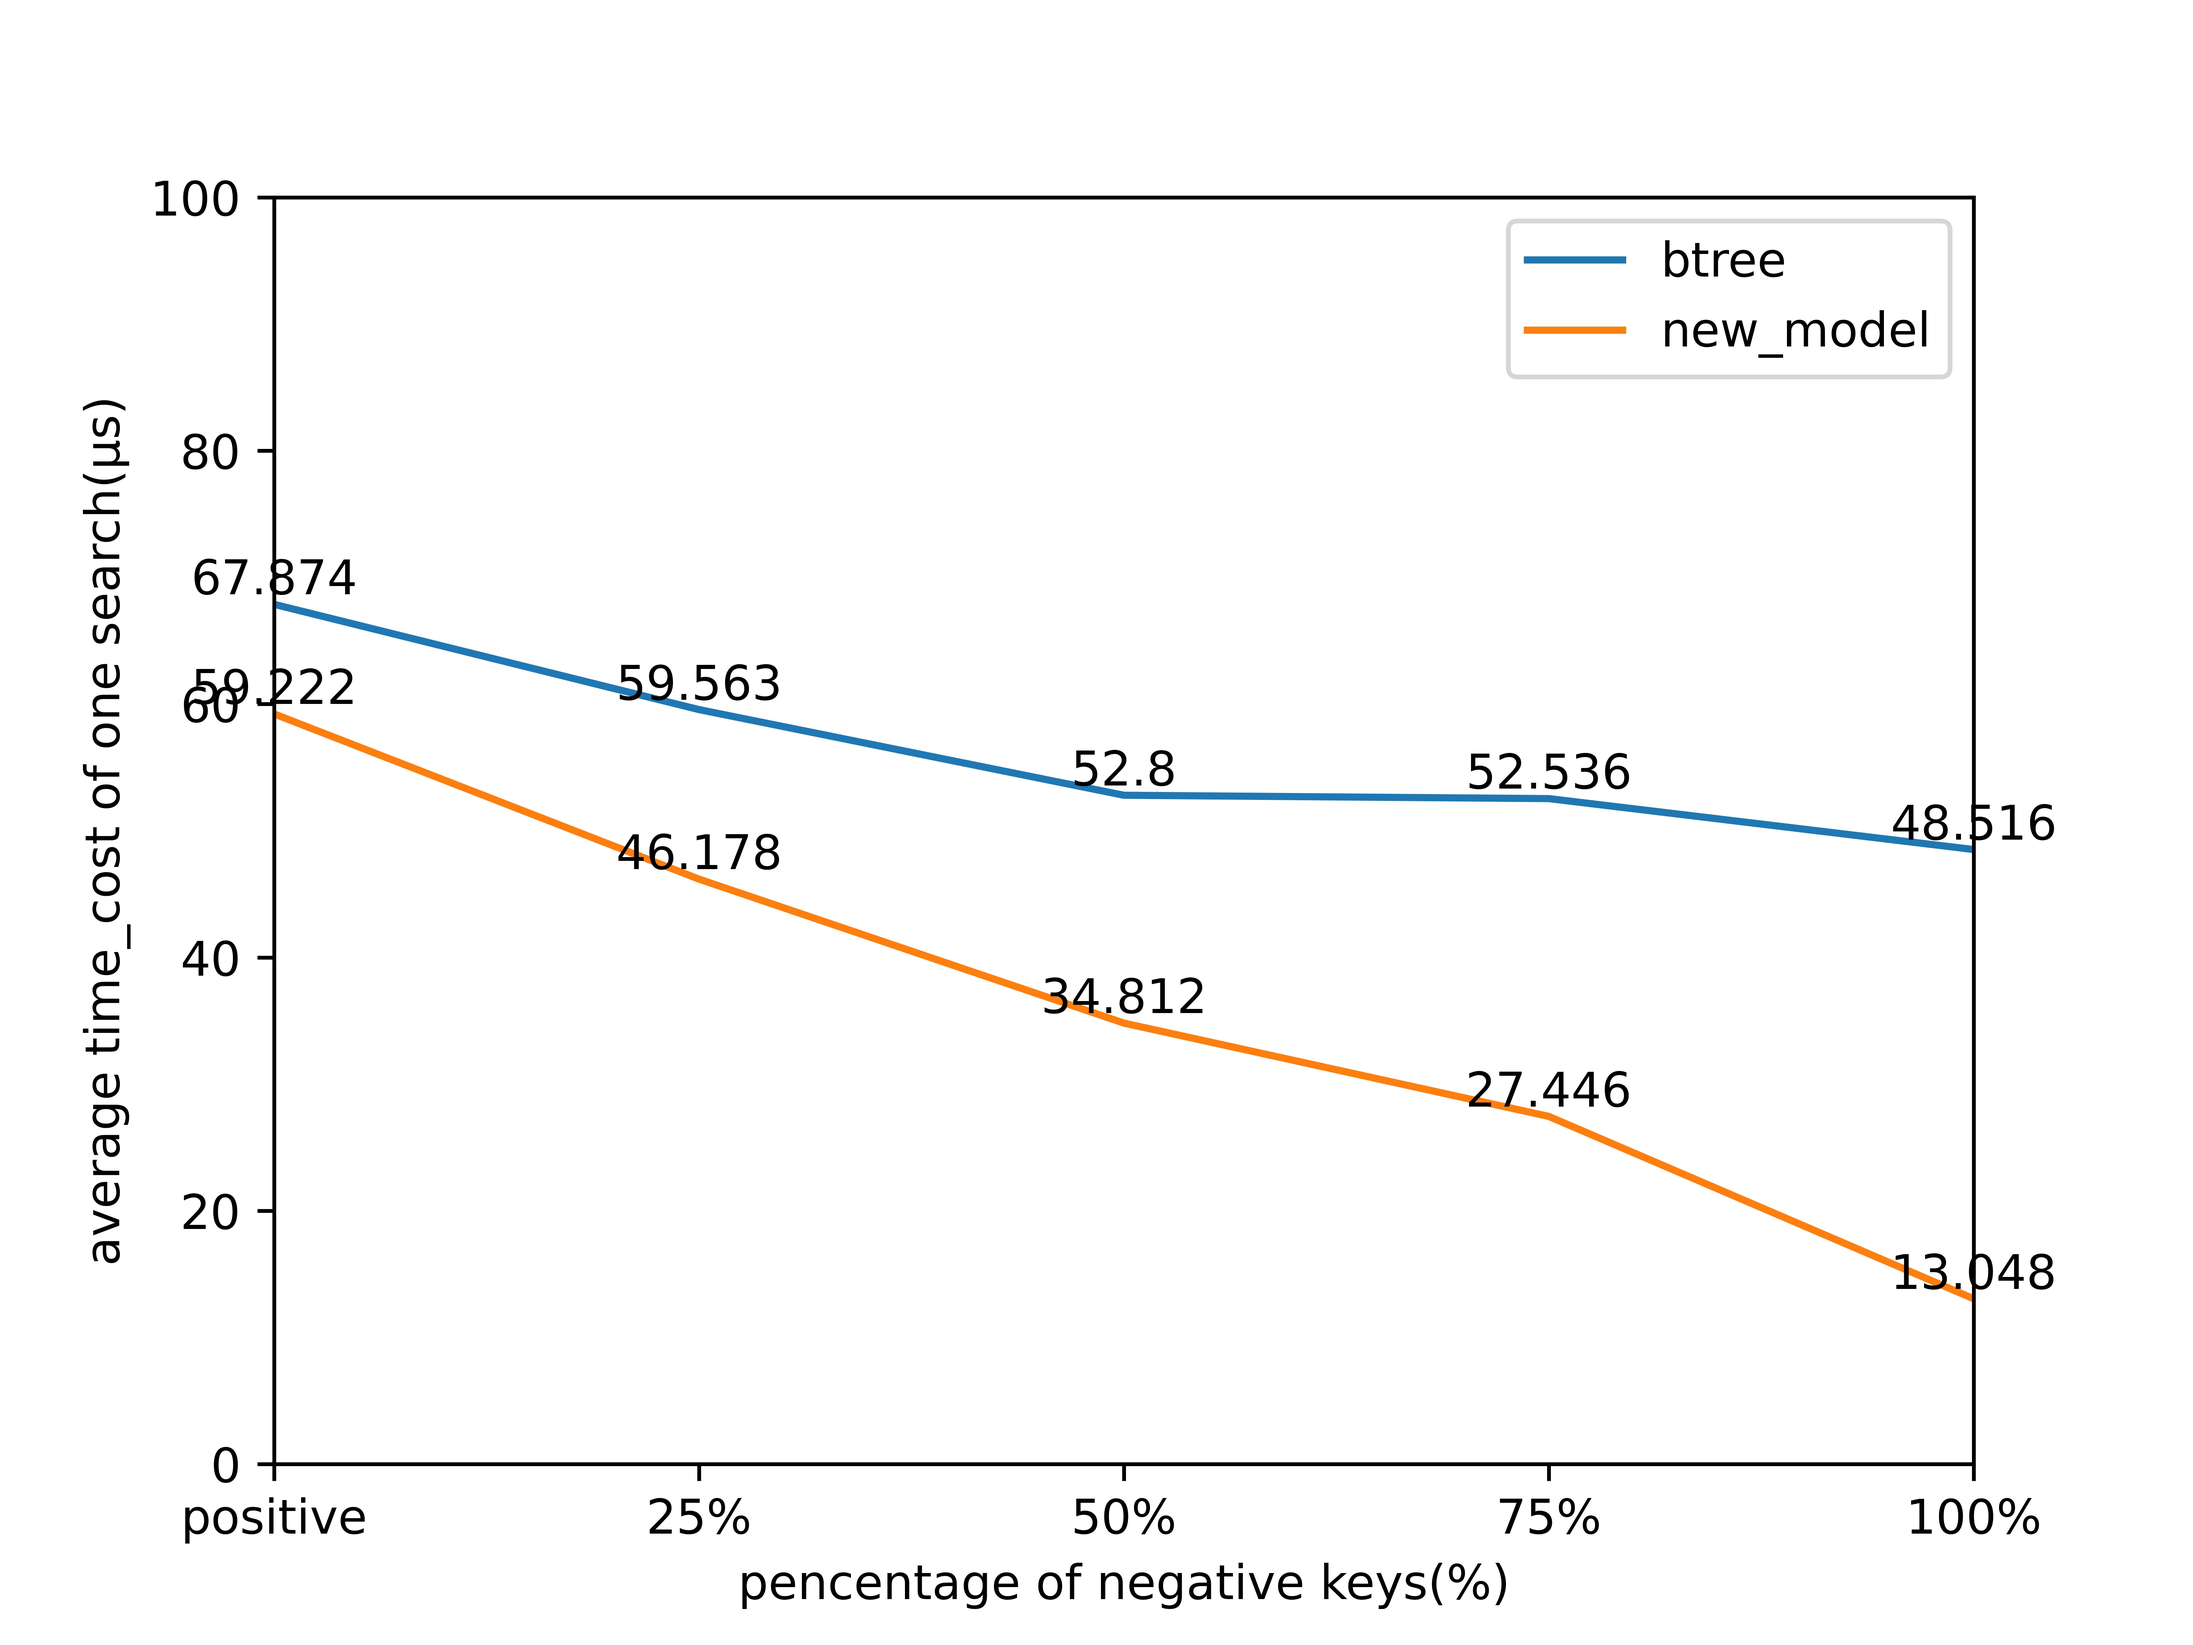
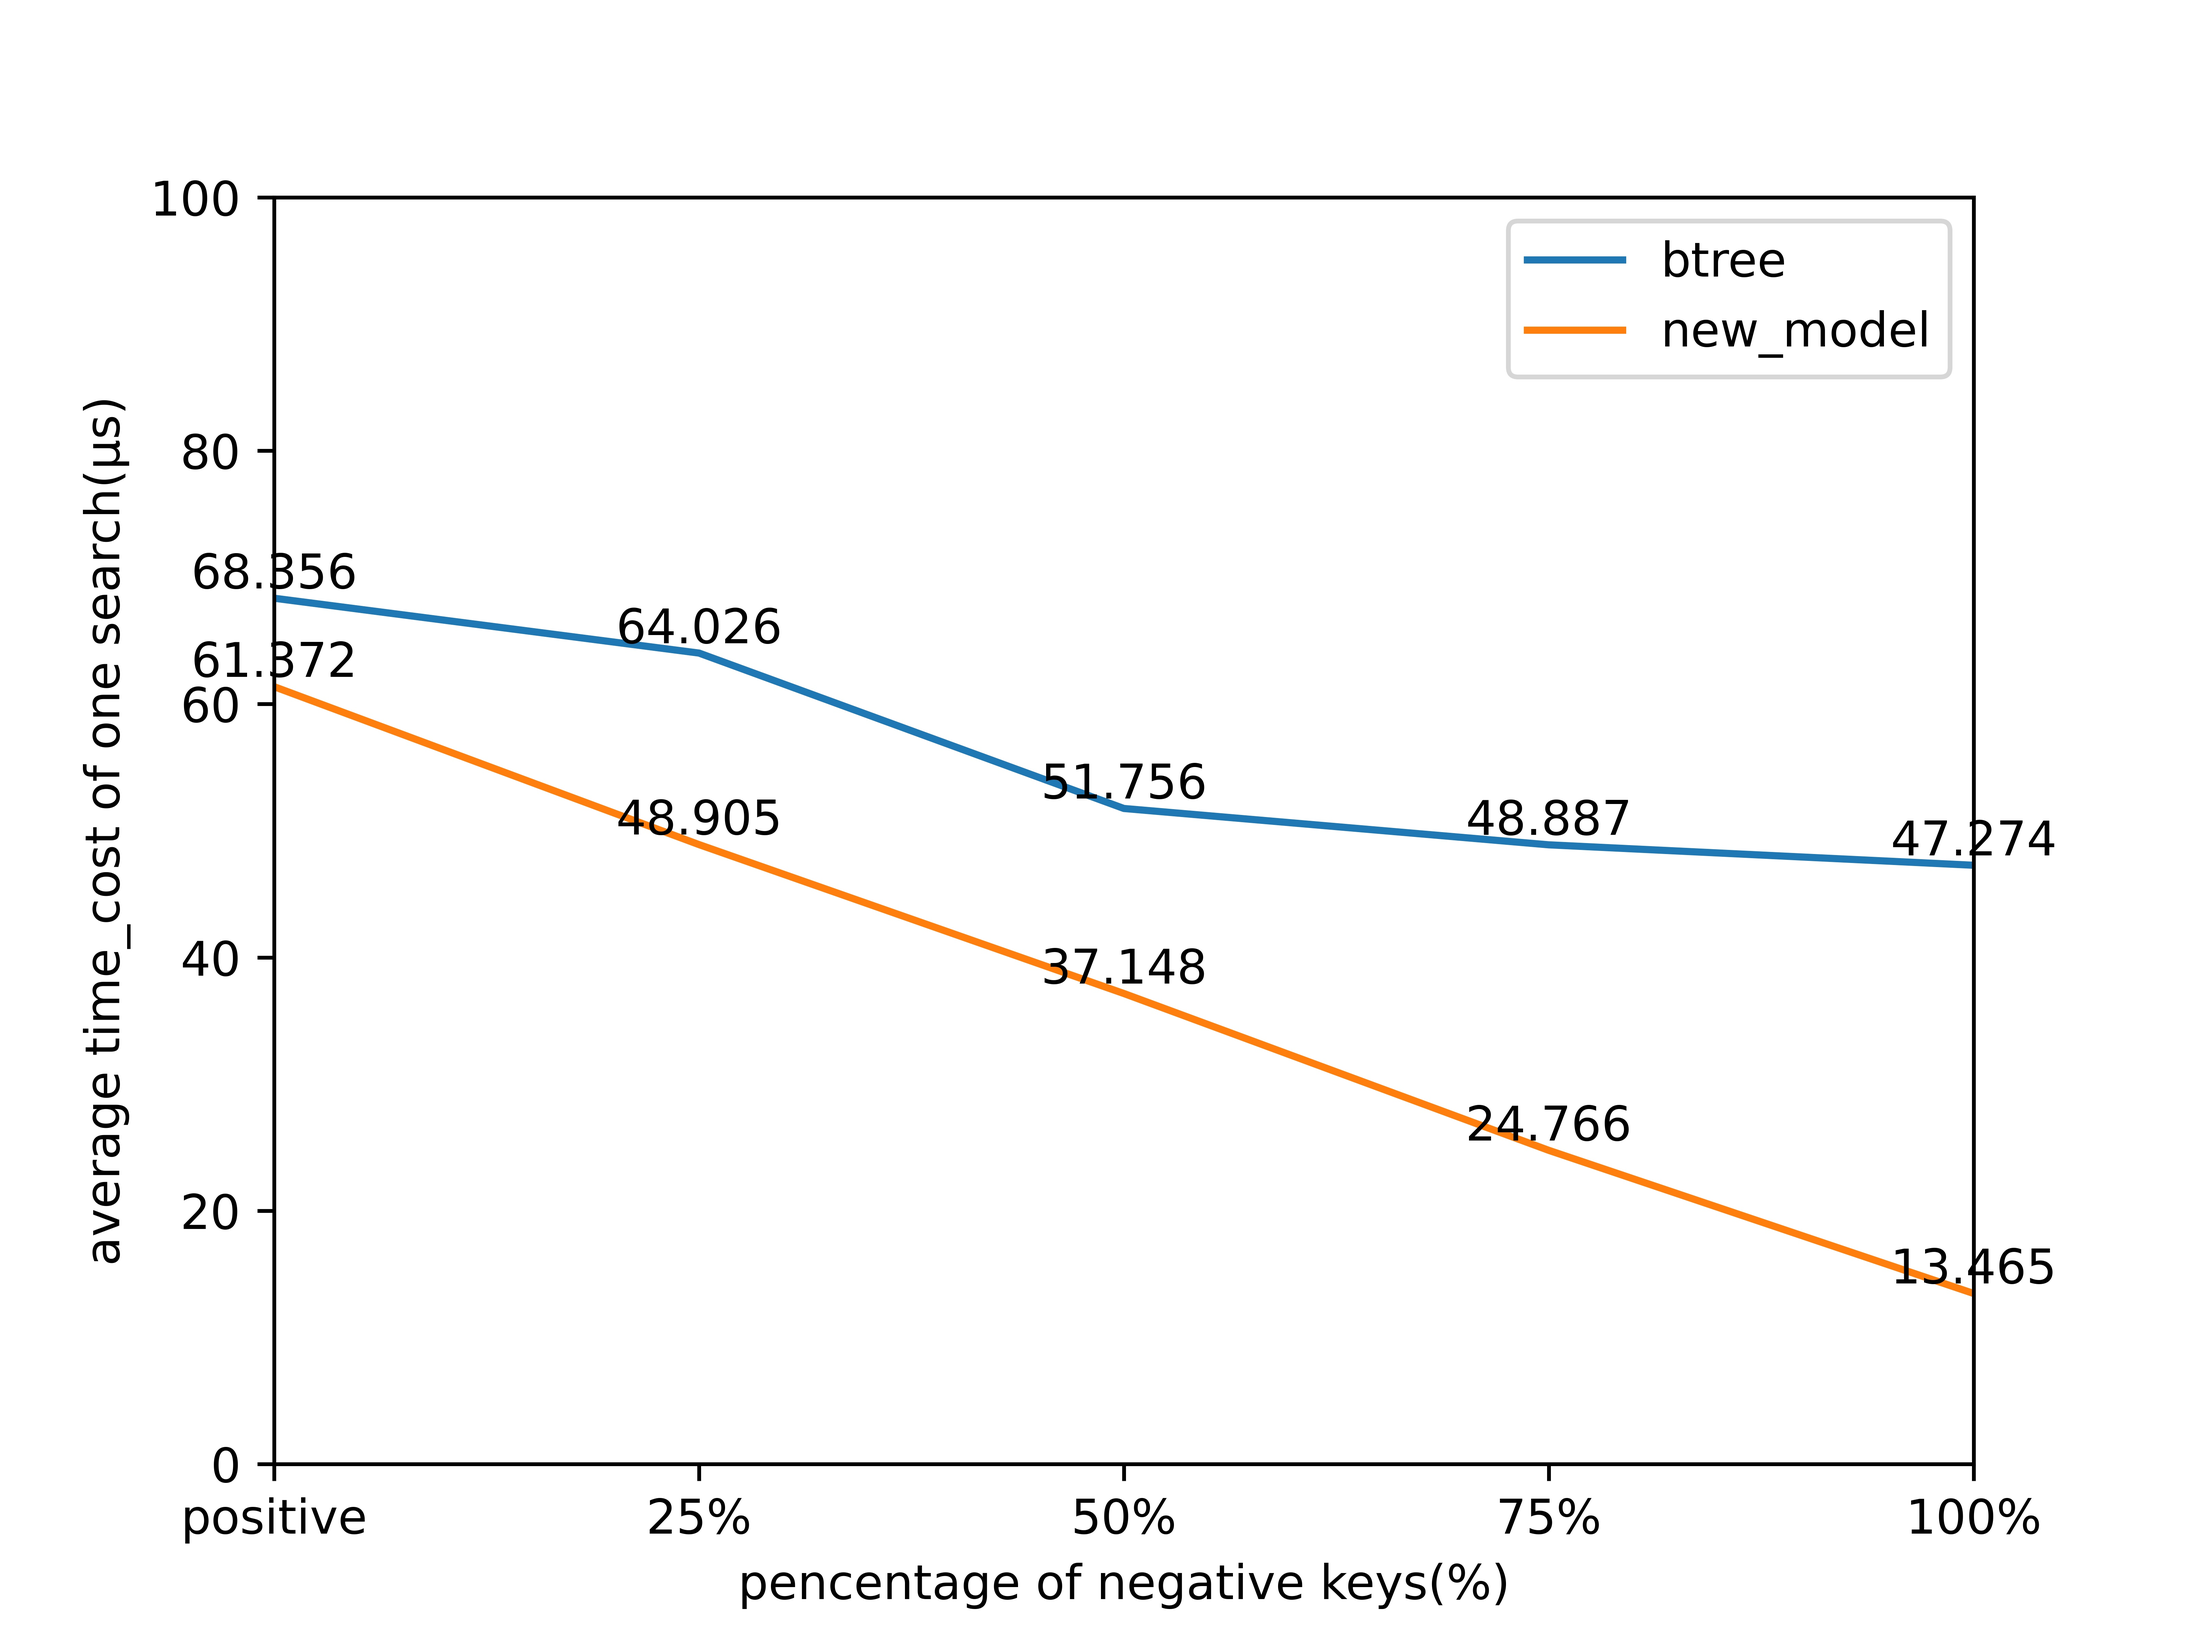
run and draw

Changed region(s): [[0.0938, 0.3125, 0.625, 0.6562], [0.4688, 0.4375, 0.9375, 0.5312], [0.625, 0.6562, 0.9375, 0.7812]]

diff --git a/draw/draw.py b/draw/draw.py
@@ -74,8 +74,8 @@ plt.clf()
 x_count = [1,2,3,4,5]
 x_label = ['1M','25M','75M','150M','200M']
 x_label = ['positive','25%','50%','75%','100%']
-y1 = np.around(np.array(btree[3])*10,3)
-y2 = np.around(np.array(new_model[3])*10,3)
+y1 = np.around(np.array(btree[4])*10,3)
+y2 = np.around(np.array(new_model[4])*10,3)
 plt.margins(0) # 控制两边是否有边界
 plt.plot(x_label,y1,label="btree")
 for a, b in zip(x_label, y1):
